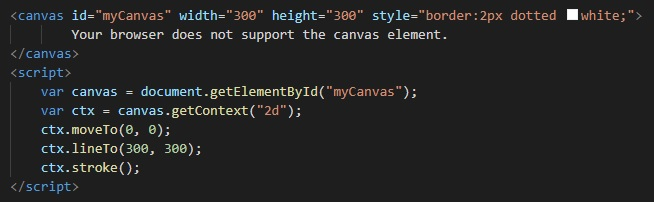
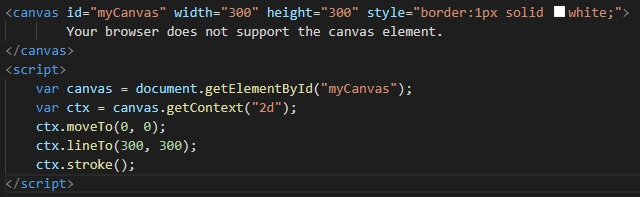
HTML5 Media

diff --git a/topics/html5.html b/topics/html5.html
@@ -46,7 +46,7 @@
                     </p><br>
                     <p>Example canvas tag and JavaScript code to draw a circle:</p>
                     <img src="../images/canvastag.jpg" /><br><br>
-                    <canvas id="myCanvas" width="300" height="300" style="border:2px solid white;">
+                    <canvas id="myCanvas" width="300" height="300" style="border:1px solid white;">
                             Your browser does not support the canvas element.
                     </canvas>
                     <script>
@@ -83,7 +83,3 @@
     </div>
 </body>
 </html>
-
-
-
-
